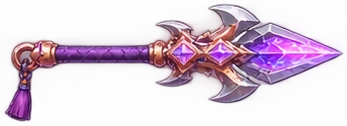
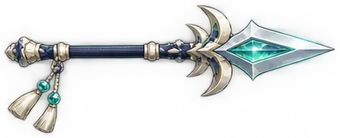
Deploy connected Samurai Lands, distinct transcendent gear and Moonlight Swordswoman wardrobe

diff --git a/public/game.html b/public/game.html
@@ -159,7 +159,7 @@ body.wide #modal{left:0;right:0;width:560px;margin:0 auto;zoom:var(--uiz,1);bord
 .wc.dim{filter:grayscale(.75) brightness(.6)}
 .wc.sel{box-shadow:0 0 0 3px #ffe066}
 .gb0{background:linear-gradient(#c3cad6,#8a93a3)}.gb1{background:linear-gradient(#8be872,#3fa83a)}.gb2{background:linear-gradient(#7ac8ff,#2f7fd8)}.gb3{background:linear-gradient(#d39bff,#8a3fd8)}.mkp{display:flex;align-items:center;gap:4px}.mkform{background:#3b3654;border:3px solid #1c1830;border-radius:14px;padding:10px;margin-bottom:9px;display:grid;gap:8px;box-sizing:border-box;width:100%;overflow:hidden}.mkh{display:flex;align-items:center;gap:10px;min-width:0}.mkh .ric{flex:0 0 56px;width:56px;height:56px;border-radius:10px}.mkh b{display:block;font-size:17px}.mkh small{font-size:12px;color:#cfc8ee}.mkcur{display:grid;grid-template-columns:1fr 1fr;gap:6px}.mkcur button{font:inherit;font-size:14px;padding:8px 4px;border-radius:10px;border:2px solid #1c1830;background:#4a4466;color:#fff;display:flex;align-items:center;justify-content:center;gap:4px}.mkcur button.on{background:#ffd23c;color:#3a2a10}.mkcur svg,.mkcur img{width:18px!important;height:18px!important}#mkprice{width:100%;box-sizing:border-box;font:inherit;font-size:17px;padding:9px 12px;border-radius:10px;border:2px solid #1c1830}.mkform .btn{width:100%;min-width:0}.mkp svg,.mkp img{width:20px!important;height:20px!important}
-.gb7{background:linear-gradient(#e9c6ff,#7951c7)}.gb4{background:linear-gradient(#ffe07a,#f0a020)}.gb6{background:linear-gradient(#ff8fb4,#c8174f)}.gb5{background:linear-gradient(#8ff5e4,#18a890)}
+.gb4{background:linear-gradient(#ffe07a,#f0a020)}.gb6{background:linear-gradient(#ff8fb4,#c8174f)}.gb5{background:linear-gradient(#8ff5e4,#18a890)}
 #pop{position:absolute;inset:0;z-index:8;background:rgba(10,8,20,.6);display:none;align-items:center;justify-content:center;pointer-events:auto}
 #pop.open{display:flex}
 .pc{position:relative;width:88%;max-width:400px;background:#f6e8c8;border:3px solid #1c1830;border-radius:16px;color:#5a3a1e;padding:46px 12px 12px;font-size:14px}
@@ -377,6 +377,18 @@ body.wide #modal{left:0;right:0;width:560px;margin:0 auto;zoom:var(--uiz,1);bord
 .vip-benefits{background:#2e2944;border:1px solid #b28b45;border-radius:12px;padding:18px;margin:14px 0;line-height:1.6}.vip-benefits h3{color:#ffd36a}.vip-benefits p{font-size:14px;margin:10px 0}.vip-benefits small{font-size:11px;color:#c8c0d8}
 .growth-button[data-a="buyvip"]{width:100%;display:flex;align-items:center;justify-content:center;gap:5px}.growth-button[data-a="buyvip"]>img,.growth-button[data-a="buyvip"]>svg{width:24px;height:24px;display:inline-block}
 #mfx{position:fixed;inset:0;z-index:9000;display:none;flex-direction:column;align-items:center;justify-content:center;pointer-events:none;background:radial-gradient(circle,rgba(20,16,40,.55),rgba(20,16,40,0) 70%)}#mfx.on{display:flex;animation:mfxo 1.5s forwards}@keyframes mfxo{0%{opacity:0}10%{opacity:1}75%{opacity:1}100%{opacity:0}}.mfxt{font-family:Jua,sans-serif;font-size:30px;color:#ffe066;margin-bottom:10px}.mfxr{display:flex;flex-wrap:wrap;gap:8px;justify-content:center;max-width:340px}.mfxc{position:relative;width:76px;height:76px;border-radius:14px;border:3px solid #1c1830;display:grid;place-items:center;animation:mfxp .45s cubic-bezier(.3,1.6,.5,1) both;box-shadow:0 0 22px rgba(255,230,120,.6)}.mfxc img{width:62px;height:62px;object-fit:contain}.mfxc b{position:absolute;bottom:-4px;left:0;right:0;text-align:center;font:13px Jua,sans-serif}.mfxc i{position:absolute;top:2px;right:5px;font:14px Jua,sans-serif;font-style:normal;color:#fff}@keyframes mfxp{0%{transform:scale(.2) rotate(-12deg);opacity:0}100%{transform:scale(1);opacity:1}}
+/* 초월 카드: 어두운 남색 바탕에 백금 테두리와 청록빛 반사광. */
+.gb7{
+ border-color:#ead5a0;
+ background:
+  radial-gradient(circle at 77% 19%,#fff6d6 0 1px,transparent 2.5px),
+  radial-gradient(circle at 18% 68%,#c2fffa 0 1px,transparent 2px),
+  repeating-linear-gradient(133deg,transparent 0 12px,#b4faf815 13px,transparent 14px 22px),
+  radial-gradient(ellipse at 45% 82%,#24928d 0,transparent 65%),
+  linear-gradient(145deg,#212f4c 0%,#0d172c 54%,#143940 100%);
+ box-shadow:inset 0 0 0 1px #fff3cb75,inset 0 0 10px #76e5e455;
+}
+
 #reward-fx{position:absolute;inset:0;z-index:100;pointer-events:none;overflow:hidden}.reward-wallet{position:absolute;right:12px;min-width:74px;display:flex;align-items:center;justify-content:center;gap:6px;padding:4px 8px;border:1px solid #eec96d;border-radius:14px;background:#211e38ee;font-size:13px}.reward-wallet :is(img,svg){width:22px;height:22px;object-fit:contain}.reward-wallet b{font-weight:400}
 @media(prefers-reduced-motion:reduce){.rfly{animation-duration:.25s}}
 .smith-odds{width:100%;margin:14px 0;border-collapse:collapse;background:#252239;border-radius:12px;text-align:center}.smith-odds th,.smith-odds td{padding:10px 5px;border-bottom:1px solid #ffffff17}.smith-odds thead{color:#fbe4ab}.smith-confirm{width:100%;display:flex;align-items:center;justify-content:center;gap:6px}.smith-confirm :is(img,svg){width:23px;height:23px;object-fit:contain}
@@ -461,9 +473,9 @@ body.wide #modal{left:0;right:0;width:560px;margin:0 auto;zoom:var(--uiz,1);bord
 <script>window.saveReady=!!sessionStorage.xp_enter && sessionStorage.xp_enter===sessionStorage.xp_tok;window.TOK=()=>sessionStorage.xp_tok||"";sessionStorage.removeItem("xp_enter");if(!window.saveReady)location.replace("index.html")</script>
 <script src="net.js?v=35"></script>
 <script src="chief-patterns.js?v=4"></script>
-<script src="chapter-three.js"></script>
+<script src="chapter-three.js?v=2"></script>
 <script src="boss-patterns.js?v=6"></script>
-<script src="weapon-skill-fx.js?v=5"></script>
+<script src="weapon-skill-fx.js?v=6"></script>
 <script src="reward-fx.js?v=1"></script>
 <script>
 'use strict';
@@ -521,7 +533,7 @@ async function idbAll(){const db=await idb();return new Promise(res=>{const out=
 async function idbPut(k,v){const db=await idb();return new Promise(res=>{const tx=db.transaction('a','readwrite');tx.objectStore('a').put(v,k);tx.oncomplete=()=>res();tx.onerror=()=>res()})}
 async function idbDel(k){const db=await idb();return new Promise(res=>{const tx=db.transaction('a','readwrite');tx.objectStore('a').delete(k);tx.oncomplete=()=>res();tx.onerror=()=>res()})}
 const BAKED={};
-async function loadAssets(){try{const r=await fetch('assets/manifest.json',{cache:'no-cache'});if(r.ok){const j=await r.json();for(const f of(j.files||[])){const n=f.replace(/\.(png|webp|jpe?g|gif)$/i,'');BAKED[n]='assets/'+f;setAsset(n,'assets/'+f+(n==='bld_fire'?'?v=2041':/^wpn_.*_5$/.test(n)?'?v=2057':/^hero_/.test(n)?'?v=2040':/^(tile|obs)/.test(n)?'?v=2037':/^fx_(boom|meteor)$/.test(n)?'?v=2101':''))}}}catch(e){}
+async function loadAssets(){try{const r=await fetch('assets/manifest.json',{cache:'no-cache'});if(r.ok){const j=await r.json();for(const f of(j.files||[])){const n=f.replace(/\.(png|webp|jpe?g|gif)$/i,'');BAKED[n]='assets/'+f;setAsset(n,'assets/'+f+(n==='bld_fire'?'?v=2041':/^wpn_.*_7$/.test(n)?'?v=2':/^wpn_.*_5$/.test(n)?'?v=2057':/^hero_moonbushi_/.test(n)?'?v=2':/^hero_/.test(n)?'?v=2040':/^(tile|obs)/.test(n)?'?v=2037':/^fx_(boom|meteor)$/.test(n)?'?v=2101':''))}}}catch(e){}
  try{for(const[k,v]of await idbAll()){LOCAL[k]=1;setAsset(k,URL.createObjectURL(v))}}catch(e){}}
 const SHAPE={sprout:'머리에 새싹 잎이 난 동글동글한 몸',slime:'말랑한 젤리 슬라임',mush:'버섯 갓을 쓴 작은 몸',spider:'다리 8개 달린 벌레형',golem:'큼직한 돌덩이 골렘',tall:'키 큰 인간형(로브·갑옷)',bat:'날개를 편 박쥐형',chest:'보물상자(때리면 부서짐)',cactus:'선인장'};
 const HERO_LOOK={archer:'초록 후드와 가죽 조끼의 견습 궁수',farmer:'밀짚모자와 멜빵바지의 농부',mage:'파란 뾰족 모자와 로브의 수습 마법사',miner:'노란 안전모와 헤드랜턴, 갈색 작업복의 광부',monk:'주황 승복과 민머리의 수도승',pirate:'삼각 해적모자와 빨간 두건, 안대의 해적',viking:'뿔 달린 투구와 털망토, 갈색 수염의 바이킹',samurai:'빨간 일본 갑옷과 투구의 사무라이',icewitch:'하늘색 마녀 모자와 얼음 결정 장식 로브의 마녀',dragon:'붉은 용비늘 갑옷과 용머리 투구의 용기사',adv:'얼굴 없는 노란 마네킹 같은 기본 캐릭터, 몸 전체가 노란색',knight:'은색 갑옷, 가슴에 파란 천, 빨간 깃털 달린 투구',rogue:'짙은 보라색 후드와 옷, 어두운 얼굴에 빛나는 노란 눈 두 개'};
@@ -600,13 +612,69 @@ const HOLE=[];function gz(z,x,y){let g=-1e9;for(const c of ZA[z]){const v=c.r-Ma
 const BR=[];for(let a=0;a<NZ;a++)for(let b=a+1;b<NZ;b++)for(const ca of ZA[a])for(const cb of ZA[b]){const d=Math.hypot(ca.x-cb.x,ca.y-cb.y),ov=ca.r+cb.r-d;if(ov>40){const t=(ca.r-ov/2)/d;BR.push({x:ca.x+(cb.x-ca.x)*t,y:ca.y+(cb.y-ca.y)*t,r:Math.min(150*MS,ov/2+50*MS),a,b})}}
 const BRIDGES=[];if(CHAP===2)for(const{za,zb,p1:q1,p2:q2}of BRX){const p1={x:CX+q1[0]*MS,y:CY+q1[1]*MS},p2={x:CX+q2[0]*MS,y:CY+q2[1]*MS};BRIDGES.push({a:za,b:zb,p1,p2});JN.push(p1,p2);
  const L=Math.hypot(p2.x-p1.x,p2.y-p1.y),ux=(p2.x-p1.x)/L,uy=(p2.y-p1.y)/L;for(let t=-260;t<=L+260;t+=28)BR.push({x:p1.x+ux*t,y:p1.y+uy*t,r:58,a:za,b:zb})}
+const LAND_ROADS=[];
 if(CHAP===3)for(const [a,ia,b,ib] of CH3_ROADS){
  const A=ia<0?{x:CX,y:CY,r:BASE.sand}:ZB[a][ia],B=ZB[b][ib];
  const d=Math.hypot(B.x-A.x,B.y-A.y),ux=(B.x-A.x)/d,uy=(B.y-A.y)/d;
  const p1={x:A.x+ux*(A.r-120),y:A.y+uy*(A.r-120)},p2={x:B.x-ux*(B.r-120),y:B.y-uy*(B.r-120)};
- BRIDGES.push({a,b,p1,p2});JN.push(p1,p2);
+ LAND_ROADS.push({a,b,p1,p2});JN.push(p1,p2);
  const length=Math.hypot(p2.x-p1.x,p2.y-p1.y);
  for(let t=0;t<=length+25;t+=25)BR.push({x:p1.x+ux*t,y:p1.y+uy*t,r:74,a,b});
+}
+const coastPath=new Path2D();
+const coast=CH3_COAST.flatMap(([x,y],i)=>{
+ const before=CH3_COAST.at(i-1),after=CH3_COAST[(i+1)%CH3_COAST.length];
+ return Array.from({length:5},(_,j)=>{
+  const t=j/5,u=1-t;
+  return [(before[0]+x)/2*u*u+2*x*u*t+(x+after[0])/2*t*t,
+          (before[1]+y)/2*u*u+2*y*u*t+(y+after[1])/2*t*t];
+ });
+});
+coast.forEach(([x,y],i)=>i?coastPath.lineTo(x,y):coastPath.moveTo(x,y));
+coastPath.closePath();
+function onContinent(x,y){
+ let inside=false;
+ for(let i=0,j=coast.length-1;i<coast.length;j=i++){
+  const [ax,ay]=coast[i],[bx,by]=coast[j];
+  if((ay>y)!==(by>y)&&x<(bx-ax)*(y-ay)/(by-ay)+ax)inside=!inside;
+ }
+ return inside;
+}
+function roadDistance(q,x,y){
+ const dx=q.p2.x-q.p1.x,dy=q.p2.y-q.p1.y;
+ const t=clamp(((x-q.p1.x)*dx+(y-q.p1.y)*dy)/(dx*dx+dy*dy),0,1);
+ return Math.hypot(x-q.p1.x-t*dx,y-q.p1.y-t*dy);
+}
+function continentWalk(x,y){
+ if(!onContinent(x,y))return false;
+ if(Math.hypot(x-WBA.x,y-WBA.y)<WBA.r+120)return zoneOpen(WBA.z);
+ if(LAND_ROADS.some(q=>zoneOpen(q.a)&&zoneOpen(q.b)&&roadDistance(q,x,y)<170))return true;
+ let best=Infinity,region=0;
+ for(let i=0;i<NZ;i++){
+  const c=ZB[i][1],d=(x-c.x)**2+(y-c.y)**2;
+  if(d<best){best=d;region=i}
+ }
+ return zoneOpen(region);
+}
+function paintContinent(){
+ ctx.save();
+ ctx.strokeStyle='#7ebfa8';ctx.lineWidth=145;ctx.stroke(coastPath);
+ ctx.strokeStyle='#bba77b';ctx.lineWidth=70;ctx.stroke(coastPath);
+ ctx.fillStyle=pat('tile3_1')||'#719456';ctx.fill(coastPath);
+ ctx.restore();
+}
+function drawLandRoads(){
+ ctx.save();
+ ctx.lineCap='round';
+ for(const q of LAND_ROADS){
+  const {p1,p2}=q;
+  ctx.beginPath();ctx.moveTo(p1.x,p1.y);
+  ctx.quadraticCurveTo((p1.x+p2.x)/2,(p1.y+p2.y)/2+95,p2.x,p2.y);
+  ctx.strokeStyle='#758052';ctx.lineWidth=174;ctx.stroke();
+  ctx.strokeStyle='#c5a878';ctx.lineWidth=137;ctx.stroke();
+  ctx.strokeStyle='#dfc28f';ctx.lineWidth=96;ctx.stroke();
+ }
+ ctx.restore();
 }
 function drawBridges(){for(const q of BRIDGES){const open=zoneOpen(q.a)&&zoneOpen(q.b),dx=q.p2.x-q.p1.x,dy=q.p2.y-q.p1.y,L=Math.hypot(dx,dy),a=Math.atan2(dy,dx);ctx.save();ctx.translate(q.p1.x,q.p1.y);ctx.rotate(a);
  const seg=(s0,s1)=>{ctx.fillStyle='rgba(0,0,0,.22)';ctx.fillRect(s0,-46,s1-s0,104);ctx.fillStyle='#6b4524';ctx.fillRect(s0,-52,s1-s0,104);for(let x=s0;x<s1;x+=24){ctx.fillStyle=((x/24)|0)%2?'#a8743f':'#b9844c';ctx.fillRect(x+1,-48,Math.min(21,s1-x-1),96)}ctx.fillStyle='#4a2c14';ctx.fillRect(s0,-54,s1-s0,9);ctx.fillRect(s0,45,s1-s0,9)};
@@ -627,7 +695,7 @@ function wbInit(){if(WBC.ok)return;let best=null,bd=1e9;for(let y=WBA.y-(CHAP===
  if(!best)best=[ZB[WBA.z][4].x,ZB[WBA.z][4].y];
  const a=Math.atan2(best[1]-WBA.y,best[0]-WBA.x);Object.assign(WBC,{ok:1,x1:WBA.x+Math.cos(a)*(WBA.r-60),y1:WBA.y+Math.sin(a)*(WBA.r-60),x2:best[0],y2:best[1],w:150})}
 function inWB(x,y,pad){wbInit();if(Math.hypot(x-WBA.x,y-WBA.y)<WBA.r-pad)return true;const dx=WBC.x2-WBC.x1,dy=WBC.y2-WBC.y1,t=clamp(((x-WBC.x1)*dx+(y-WBC.y1)*dy)/(dx*dx+dy*dy),0,1);return Math.hypot(x-WBC.x1-dx*t,y-WBC.y1-dy*t)<WBC.w/2-pad}
-function walk(x,y){if(Math.hypot(x-CX,y-CY)<BASEC.r-14)return true;if(zoneOpen(WBA.z)&&inWB(x,y,16))return true;for(let i=0;i<NZ;i++)if(zoneOpen(i)){const g=gz(i,x,y);if(g>3)return true;if(g>-40&&WCTX.isPointInPath(ZC[i].path,x,y))return true}return inBR(x,y,14,q=>zoneOpen(q.a)&&zoneOpen(q.b))}
+function walk(x,y){if(Math.hypot(x-CX,y-CY)<BASEC.r-14)return true;if(CHAP===3)return continentWalk(x,y);if(zoneOpen(WBA.z)&&inWB(x,y,16))return true;for(let i=0;i<NZ;i++)if(zoneOpen(i)){const g=gz(i,x,y);if(g>3)return true;if(g>-40&&WCTX.isPointInPath(ZC[i].path,x,y))return true}return inBR(x,y,14,q=>zoneOpen(q.a)&&zoneOpen(q.b))}
 // 레벨업 필요 경험치: Lv.40까지 20·L^1.8, 그 뒤로는 레벨마다 13%씩 더 가파르게 (1챕 끝 약 Lv.70)
 function NEEDF(l){return Math.round(20*Math.pow(l,1.8)*Math.pow(1.13,Math.max(0,l-40)))}
 const M=(n,lv,hp,atk,xp,gold,r,spd,sh,c,o)=>Object.assign({n,lv,hp,atk,xp,gold,r,spd,sh,c,resp:7},o||{});
@@ -702,7 +770,7 @@ const WT={
  dagger:{n:'쌍검',rg:BASIC_RANGE,cd:.32,m:.34,arc:.8,hits:2,ds:'양손 번갈아 2연속 베기'},sword:{n:'검',rg:BASIC_RANGE,cd:.6,m:1.12,arc:1.3,ds:'앞쪽 부채꼴 베기'},mace:{n:'둔기',rg:BASIC_RANGE,cd:1.1,m:1.81,arc:3.14,stun:.45,ds:'360° 내려찍기 · 기절'},spear:{n:'창',rg:BASIC_RANGE,cd:.75,m:1.42,arc:.4,line:1,ds:'긴 일직선 관통 찌르기'},axe:{n:'도끼',rg:BASIC_RANGE,cd:.9,m:1.6,arc:1.9,kb:14,ds:'넓은 휘두르기 · 밀쳐내기'},
  bow:{n:'석궁',rg:150,cd:.85,m:.84,shot:1,pierce:1,ds:'일직선 관통 화살'},gun:{n:'총',rg:135,cd:.5,m:.25,shot:1,pel:3,ds:'3발 산탄 사격'},staff:{n:'지팡이',rg:140,cd:1.1,m:1.87,shot:1,aoe:70,ds:'마법 구슬 폭발'}
 };
-const GR=[{n:'일반',c:'#c3cad6',p:'낡은',b:3},{n:'희귀',c:'#6fe04f',p:'강철',b:8},{n:'레어',c:'#5ab4ff',p:'달빛',b:20},{n:'에픽',c:'#c97bff',p:'용의',b:55},{n:'전설',c:'#ffc93c',p:'태양의',b:150},{n:'고대',c:'#3ee0c8',p:'고대의',b:420},{n:'신화',c:'#ff3d7f',p:'신화의',b:800},{n:'초월',c:'#c9a5ff',p:'초월의',b:1600}];
+const GR=[{n:'일반',c:'#c3cad6',p:'낡은',b:3},{n:'희귀',c:'#6fe04f',p:'강철',b:8},{n:'레어',c:'#5ab4ff',p:'달빛',b:20},{n:'에픽',c:'#c97bff',p:'용의',b:55},{n:'전설',c:'#ffc93c',p:'태양의',b:150},{n:'고대',c:'#3ee0c8',p:'고대의',b:420},{n:'신화',c:'#ff3d7f',p:'신화의',b:800},{n:'초월',c:'#fff0c4',p:'초월의',b:1600}];
 function wIcon(k){const[t,g]=k.split('_');if(g==='6'&&!AURL['wpn_'+t+'_6']&&AURL['wpn_'+t+'_5'])return `<img src="${AURL['wpn_'+t+'_5']}" class="wimg" style="filter:hue-rotate(180deg) saturate(1.3)" alt="">`;if(g==='5'&&!AURL['wpn_'+t+'_5']&&AURL['wpn_'+t+'_4'])return `<img src="${AURL['wpn_'+t+'_4']}" class="wimg" style="filter:hue-rotate(150deg) saturate(1.15)" alt="">`;const u=AURL['wpn_'+t+'_'+g]||AURL['wpn_'+t];return u?`<img src="${u}" class="wimg" alt="">`:IC.sword}
 const SK={dagger:{n:'그림자 연격',d:'양손 쌍검으로 가까운 적을 6번 연속 벱니다',cd:4},sword:{n:'검기',d:'앞으로 관통하는 거대한 검기를 날립니다',cd:5},mace:{n:'대지 강타',d:'주변을 내려찍어 피해를 주고 1초 기절시킵니다',cd:6},spear:{n:'천공창',d:'아주 긴 일직선으로 관통 찌르기',cd:5},axe:{n:'회오리',d:'1.2초 동안 회전하며 주변을 계속 벱니다',cd:6},bow:{n:'화살비',d:'부채꼴로 관통 화살 7발을 쏩니다',cd:5},gun:{n:'난사',d:'1초 동안 사방으로 총알을 난사합니다',cd:5},staff:{n:'메테오',d:'적 위치에 운석을 떨어뜨려 크게 폭발합니다',cd:7}};
 const SK5={dagger:{n:'천 개의 칼날',d:'주변 적 4마리 사이를 오가며 12번 베어냅니다',cd:4},sword:{n:'차원 가르기',d:'세 갈래 거대한 검기를 날린 뒤 차원 균열이 폭발합니다',cd:5},mace:{n:'대지 붕괴',d:'점점 커지는 충격파 3번으로 넓게 내려찍고 기절시킵니다',cd:6},spear:{n:'용의 별창',d:'별 모양 다섯 방향으로 긴 관통 찌르기',cd:5},axe:{n:'폭풍 회오리',d:'2.4초 동안 거대한 회오리가 되어 주변을 계속 벱니다',cd:6},bow:{n:'별의 화살비',d:'화살 9발을 3번 쏘고 하늘에서 화살비가 쏟아집니다',cd:5},gun:{n:'탄막 폭풍',d:'나선형으로 총알 24발을 쏟아냅니다',cd:5},staff:{n:'유성우',d:'적들 위로 운석 5개를 떨어뜨립니다',cd:7}};
@@ -724,18 +792,19 @@ function useSkill5(t){const tg=nearest(t==='bow'||t==='staff'||t==='gun'?300:t==
  return true}
 // 신화 전용 스킬
 const SK6={dagger:{n:'혈월 난무',d:'주변 적 6마리 사이를 순간이동하며 18번 베고, 마지막에 붉은 십자 폭발',cd:4},sword:{n:'천벌의 검',d:'다섯 갈래 검기를 날린 뒤 하늘에서 거대한 검이 떨어져 폭발합니다',cd:5},mace:{n:'천지개벽',d:'충격파 4번으로 화면을 흔들고 마지막에 대지가 갈라지며 2초 기절',cd:6},spear:{n:'신룡창',d:'여덟 방향으로 용의 창을 찌른 뒤 중심에서 용이 솟구쳐 폭발합니다',cd:5},axe:{n:'멸망의 폭풍',d:'3초 동안 점점 커지는 붉은 폭풍이 되어 주변을 쓸어버립니다',cd:6},bow:{n:'신의 심판',d:'화살 12발을 3번 쏘고, 주변 적 모두에게 빛의 화살이 내리꽂힙니다',cd:5},gun:{n:'섬멸 포화',d:'나선형 탄막 36발 뒤에 거대한 포탄을 쏴서 크게 폭발합니다',cd:5},staff:{n:'종말의 별',d:'운석 7개를 떨어뜨리고 마지막에 거대한 붉은 별이 떨어집니다',cd:7}};
-function useSkill6(t){const tg=nearest(t==='bow'||t==='staff'||t==='gun'?320:t==='sword'||t==='spear'?300:200);if(!tg)return false;window.SFX&&SFX.play('explode',{v:.9});const A=ST.atk*ST.skill*SKM[t]*SK6M[t],a=Math.atan2(tg.y-P.y,tg.x-P.x),C='#ff3d7f';P.dir=a;window.WeaponSkillFX?.add(fxs,t,6,P,tg,a);
- num(P.x,P.y-104,SK6[t].n+'!',C,true);
+function useSkill6(t,grade=6){const tg=nearest(t==='bow'||t==='staff'||t==='gun'?320:t==='sword'||t==='spear'?300:200);if(!tg)return false;window.SFX&&SFX.play('explode',{v:.9});const A=ST.atk*ST.skill*SKM[t]*SK6M[t],a=Math.atan2(tg.y-P.y,tg.x-P.x),C=grade===7?'#affff0':'#ff3d7f';P.dir=a;window.WeaponSkillFX?.add(fxs,t,grade,P,tg,a);
+ num(P.x,P.y-104,(grade===7?'초월 · ':'')+SK6[t].n+'!',C,true);
+ const art=(x,y,size,duration)=>window.WeaponSkillFX?.impact(fxs,t,grade,x,y,size,false,duration);
  const near=(r,n)=>mons.filter(m=>!m.dead&&zoneOpen(m.z)&&Math.hypot(m.x-P.x,m.y-P.y)<r).sort((p,q)=>Math.hypot(p.x-P.x,p.y-P.y)-Math.hypot(q.x-P.x,q.y-P.y)).slice(0,n);
- const boom=(x,y,r,d,stun)=>{areaHit(x,y,r,d,stun);IF('fx_boom',{x,y:y-20,t:.5,s0:r*.8,s1:r*1.9})||fxs.push({x,y,t:.45,r,c:C});fxs.push({x,y,t:.3,r:r*.55,c:'#fff'})};
+ const boom=(x,y,r,d,stun)=>{areaHit(x,y,r,d,stun);if(grade===7){art(x,y-18,r*1.9,.45);return}IF('fx_boom',{x,y:y-20,t:.5,s0:r*.8,s1:r*1.9})||fxs.push({x,y,t:.45,r,c:C});fxs.push({x,y,t:.3,r:r*.55,c:'#fff'})};
  switch(t){
- case'dagger':{const L=near(240,6);for(let i=0;i<18;i++)later(i*.055,()=>{const m=L[i%Math.max(1,L.length)];if(m&&!m.dead){dmg(m,Math.round(A*1.75),Math.random()<.7);IF('fx_x',{x:m.x,y:m.y-m.d.r,t:.22,s0:50,s1:100,rot:rnd(-.8,.8)})||fxs.push({line:1,x:m.x-30,y:m.y-m.d.r,a:rnd(-.8,.8),r:80,t:.12});fxs.push({x:m.x,y:m.y-m.d.r,t:.18,r:34,c:C})}});later(1.05,()=>{for(const m of L)if(!m.dead)boom(m.x,m.y,90,A*2.5)});break}
- case'sword':for(const o of[-.5,-.25,0,.25,.5])bolt(a+o,600,.6,Math.round(A*3.6),'wave',true,undefined,undefined,{type:t,grade:6});later(.6,()=>{const x=tg.x,y=tg.y;later(.35,()=>{boom(x,y,190,A*5.5)})});break;
- case'mace':[160,240,320,400].forEach((r,i)=>later(i*.24,()=>{areaHit(P.x,P.y,r,A*2.4,1);IF('fx_ring',{x:P.x,y:P.y-6,t:.5,s0:r*.6,s1:r*2.1,sy:.62})||fxs.push({x:P.x,y:P.y,t:.45,r,c:C});fxs.push({x:P.x,y:P.y,t:.3,r:r*.6,c:'#fff'})}));later(1.05,()=>{for(const m of near(400,30)){m.stunT=Math.max(m.stunT||0,2)}boom(P.x,P.y,260,A*2.5,1)});break;
+ case'dagger':{const L=near(240,6);for(let i=0;i<18;i++)later(i*.055,()=>{const m=L[i%Math.max(1,L.length)];if(m&&!m.dead){dmg(m,Math.round(A*1.75),Math.random()<.7);if(grade===7){if(!combatArena&&i%3===0)art(m.x,m.y-m.d.r,105,.22);return}IF('fx_x',{x:m.x,y:m.y-m.d.r,t:.22,s0:50,s1:100,rot:rnd(-.8,.8)})||fxs.push({line:1,x:m.x-30,y:m.y-m.d.r,a:rnd(-.8,.8),r:80,t:.12});fxs.push({x:m.x,y:m.y-m.d.r,t:.18,r:34,c:C})}});later(1.05,()=>{for(const m of L)if(!m.dead)boom(m.x,m.y,90,A*2.5)});break}
+ case'sword':for(const o of[-.5,-.25,0,.25,.5])bolt(a+o,600,.6,Math.round(A*3.6),'wave',true,undefined,undefined,{type:t,grade});later(.6,()=>{const x=tg.x,y=tg.y;later(.35,()=>{boom(x,y,190,A*5.5)})});break;
+ case'mace':[160,240,320,400].forEach((r,i)=>later(i*.24,()=>{areaHit(P.x,P.y,r,A*2.4,1);if(grade===7){art(P.x,P.y-6,r*1.45,.42);return}IF('fx_ring',{x:P.x,y:P.y-6,t:.5,s0:r*.6,s1:r*2.1,sy:.62})||fxs.push({x:P.x,y:P.y,t:.45,r,c:C});fxs.push({x:P.x,y:P.y,t:.3,r:r*.6,c:'#fff'})}));later(1.05,()=>{for(const m of near(400,30)){m.stunT=Math.max(m.stunT||0,2)}boom(P.x,P.y,260,A*2.5,1)});break;
  case'spear':for(let k=0;k<8;k++)later(k*.05,()=>lineHit(a+k*TAU/8,380,A*4.2,false));later(.55,()=>boom(P.x,P.y,170,A*4));break;
  case'axe':for(let i=0;i<15;i++)later(i*.2,()=>{const r=150+i*5;areaHit(P.x,P.y,r,A*1.45);P.sdir=-P.sdir;P.swingT=P.sw=.16});break;
- case'bow':for(let v=0;v<3;v++)later(v*.16,()=>{for(let i=0;i<12;i++)bolt(a+(i-5.5)*.09,860,.5,Math.round(A*.75),'sarrow',true,undefined,undefined,{type:t,grade:6})});later(.6,()=>{for(const m of near(360,12))if(!m.dead){const x=m.x,y=m.y;for(let k=0;k<3;k++)fxs.push({line:1,x:x+rnd(-20,20),y:y-40,a:1.5,r:60,t:.18});boom(x,y,80,A*2.2)}});break;
- case'gun':for(let i=0;i<36;i++)later(i*.035,()=>bolt(a+i*.5,720,.42,Math.round(A*1.6),'sbullet',true,undefined,undefined,{type:t,grade:6}));later(1.35,()=>{bolt(a,900,.3,Math.round(A*2),'sbullet',true,undefined,undefined,{type:t,grade:6});later(.25,()=>boom(tg.x,tg.y,170,A*5))});break;
+ case'bow':for(let v=0;v<3;v++)later(v*.16,()=>{for(let i=0;i<12;i++)bolt(a+(i-5.5)*.09,860,.5,Math.round(A*.75),'sarrow',true,undefined,undefined,{type:t,grade})});later(.6,()=>{for(const m of near(360,12))if(!m.dead){const x=m.x,y=m.y;if(grade!==7)for(let k=0;k<3;k++)fxs.push({line:1,x:x+rnd(-20,20),y:y-40,a:1.5,r:60,t:.18});boom(x,y,80,A*2.2)}});break;
+ case'gun':for(let i=0;i<36;i++)later(i*.035,()=>bolt(a+i*.5,720,.42,Math.round(A*1.6),'sbullet',true,undefined,undefined,{type:t,grade}));later(1.35,()=>{bolt(a,900,.3,Math.round(A*2),'sbullet',true,undefined,undefined,{type:t,grade});later(.25,()=>boom(tg.x,tg.y,170,A*5))});break;
  case'staff':{const L=near(340,7);for(let k=0;k<7;k++){const m=L[k%Math.max(1,L.length)]||tg,mx=m.x+rnd(-30,30),my=m.y+rnd(-30,30);later(k*.14,()=>{later(.5,()=>boom(mx,my,130,A*2.9))})}later(1.3,()=>{const mx=tg.x,my=tg.y;later(.6,()=>{boom(mx,my,240,A*6)})})}}
  return true}
 const SP={dagger:'3연속 베기',sword:'넓고 강한 베기',mace:'큰 충격파',spear:'1.5배 길이 찌르기',axe:'360° 회전 베기',bow:'화살 3발',gun:'5발 산탄',staff:'큰 폭발'};
@@ -1430,22 +1499,25 @@ function useSkill(t){const tg=nearest(t==='bow'||t==='staff'||t==='gun'?260:t===
 const SP5={dagger:'고대 4연속 베기',sword:'고대 검기 발사',mace:'여진 충격파',spear:'2배 길이 관통',axe:'회전 베기 + 강한 밀쳐내기',bow:'고대 화살 5발',gun:'7발 산탄',staff:'2배 폭발'};
 const SP6={dagger:'신화 5연속 + 출혈 폭발',sword:'세 갈래 신화 검기',mace:'이중 여진 + 기절',spear:'세 방향 신룡 찌르기',axe:'신화 이중 회전',bow:'신화 화살 7발',gun:'9발 폭발 산탄',staff:'연쇄 3폭발'};
 // 고대(eg=1)·신화(eg=2) 3번째 평타 추가 효과
-function empExtra(t,eg,h,c){const d=h.d,m=h.m,a=Math.atan2(m.y-P.y,m.x-P.x);
+function empExtra(t,eg,h,c,grade=eg+4){const d=h.d,m=h.m,a=Math.atan2(m.y-P.y,m.x-P.x);
+ const impact=(x,y,r)=>grade===7
+  ? window.WeaponSkillFX?.impact(fxs,t,grade,x,y-12,r*2,true)
+  : fxs.push({x,y,t:.35,r,c});
  switch(t){
- case'dagger':for(let i=0;i<eg;i++)later(.12+i*.1,()=>{P.sdir=-P.sdir;P.swingT=P.sw=.12;swingHits(WT.dagger,h.crit,Math.round(d*.8))});if(eg>1)later(.4,()=>{if(!m.dead){areaHit(m.x,m.y,70,d*.9);fxs.push({x:m.x,y:m.y,t:.35,r:70,c})}});break;
- case'sword':for(const o of(eg>1?[-.3,0,.3]:[0]))bolt(a+o,620,.42,Math.round(d*.9),'wave',true,undefined,undefined,{type:t,grade:eg+4,third:true});break;
- case'mace':for(let i=0;i<eg;i++)later(.22+i*.22,()=>{const r=WT.mace.rg*(1.6+i*.5);areaHit(P.x,P.y,r,d*.6,eg>1?1:0);IF('fx_ring',{x:P.x,y:P.y-6,t:.45,s0:r*.6,s1:r*2,sy:.62})||fxs.push({x:P.x,y:P.y,t:.4,r,c})});break;
+ case'dagger':for(let i=0;i<eg;i++)later(.12+i*.1,()=>{P.sdir=-P.sdir;P.swingT=P.sw=.12;swingHits(WT.dagger,h.crit,Math.round(d*.8))});if(eg>1)later(.4,()=>{if(!m.dead){areaHit(m.x,m.y,70,d*.9);impact(m.x,m.y,70)}});break;
+ case'sword':for(const o of(eg>1?[-.3,0,.3]:[0]))bolt(a+o,620,.42,Math.round(d*.9),'wave',true,undefined,undefined,{type:t,grade,third:true});break;
+ case'mace':for(let i=0;i<eg;i++)later(.22+i*.22,()=>{const r=WT.mace.rg*(1.6+i*.5);areaHit(P.x,P.y,r,d*.6,eg>1?1:0);if(grade===7){impact(P.x,P.y,r);return}IF('fx_ring',{x:P.x,y:P.y-6,t:.45,s0:r*.6,s1:r*2,sy:.62})||fxs.push({x:P.x,y:P.y,t:.4,r,c})});break;
  case'spear':if(eg>1)for(const o of[-.45,.45])lineHit(a+o,WT.spear.rg*2.3,d*.8,false);break;
  case'axe':for(const mm of mons)if(!mm.dead&&Math.hypot(mm.x-P.x,mm.y-P.y)<WT.axe.rg+60){const l=Math.hypot(mm.x-P.x,mm.y-P.y)||1;if(!mm.d.boss){mm.x+=(mm.x-P.x)/l*30*eg;mm.y+=(mm.y-P.y)/l*30*eg}}if(eg>1)later(.18,()=>{P.sdir=-P.sdir;P.swingT=P.sw=.16;swingHits(Object.assign({},WT.axe,{arc:3.14}),h.crit,Math.round(d*.8))});break;
- case'gun':if(eg>1)later(.25,()=>{if(!m.dead){areaHit(m.x,m.y,80,d*1.2);fxs.push({x:m.x,y:m.y,t:.35,r:80,c})}});break;
- case'staff':if(eg>1)for(let i=1;i<=2;i++)later(i*.18,()=>{const x=m.x+rnd(-60,60),y=m.y+rnd(-40,40);areaHit(x,y,WT.staff.aoe*1.6,d*.7);IF('fx_boom',{x,y:y-20,t:.4,s0:60,s1:150})||fxs.push({x,y,t:.4,r:WT.staff.aoe*1.6,c})});break;
+ case'gun':if(eg>1)later(.25,()=>{if(!m.dead){areaHit(m.x,m.y,80,d*1.2);impact(m.x,m.y,80)}});break;
+ case'staff':if(eg>1)for(let i=1;i<=2;i++)later(i*.18,()=>{const x=m.x+rnd(-60,60),y=m.y+rnd(-40,40);areaHit(x,y,WT.staff.aoe*1.6,d*.7);if(grade===7){impact(x,y,WT.staff.aoe*1.6);return}IF('fx_boom',{x,y:y-20,t:.4,s0:60,s1:150})||fxs.push({x,y,t:.4,r:WT.staff.aoe*1.6,c})});break;
  }}
 // 단일 보스 기준으로 3타의 산탄·검기·추가 폭발까지 포함해 등급별 총 피해를 맞춤.
 const THIRD_HIT_MULT={
  1:{dagger:2.000000,sword:1.473684,mace:1.750000,spear:2.800000,axe:2.800000,bow:1.680000,gun:2.000000,staff:2.800000},
  2:{dagger:2.488889,sword:1.513514,mace:2.545455,spear:2.153846,axe:3.111111,bow:2.400000,gun:3.414634,staff:2.333333},
 };
-function resolveHit(){const h=P.pend;P.pend=null;let w=h.w;const tipOk=P.tipX&&Math.hypot(P.tipX-P.x,P.tipY-P.y)<110,sx=tipOk?P.tipX:P.x+Math.cos(P.dir)*14,sy=tipOk?P.tipY:P.y-22;let weaponArt;if(h.emp){const eg=Math.min(6,Math.max(4,+mainW().split('_')[1]||0))-4,ec=['#ffd23c','#3ee0c8','#ff3d7f'][eg];w=Object.assign({},w,{rg:w.rg*(w.line?[1.5,2,2.3][eg]:[1.2,1.3,1.4][eg]),arc:Math.min(3.14,(w.arc||1.2)*(w===WT.axe?3:1.3)),hits:w.hits?3:0,pel:w.pel?[5,7,9][eg]:0,aoe:w.aoe?w.aoe*[1.5,2,2.4][eg]:0});h.d=Math.round(h.d*(eg?THIRD_HIT_MULT[eg][wType()]:1.4));if(eg){weaponArt={type:wType(),grade:eg+4,third:true};window.WeaponSkillFX?.add(fxs,wType(),eg+4,P,h.m,P.dir,true)}else fxs.push({x:P.x,y:P.y-14,t:.4,r:w.shot?50:w.rg,c:ec});num(P.x,P.y-96,(eg?(eg>1?SP6:SP5)[wType()]:SP[wType()]),eg?ec:'#ffe066',false);if(eg)empExtra(wType(),eg,h,ec);if(w.pierce){for(const da of(eg>1?[-.4,-.2,.2,.4,-.6,.6]:eg?[-.4,-.2,.2,.4]:[-.2,.2])){const a0=Math.atan2(h.m.y-h.m.d.r*.6-sy,h.m.x-sx)+da;bolt(a0,760,w.rg*1.15/760,h.d,'bow',true,sx,sy,weaponArt)}}}
+function resolveHit(){const h=P.pend;P.pend=null;let w=h.w;const tipOk=P.tipX&&Math.hypot(P.tipX-P.x,P.tipY-P.y)<110,sx=tipOk?P.tipX:P.x+Math.cos(P.dir)*14,sy=tipOk?P.tipY:P.y-22;let weaponArt;if(h.emp){const grade=+mainW().split('_')[1],eg=Math.min(6,Math.max(4,grade||0))-4,ec=grade===7?'#affff0':['#ffd23c','#3ee0c8','#ff3d7f'][eg];w=Object.assign({},w,{rg:w.rg*(w.line?[1.5,2,2.3][eg]:[1.2,1.3,1.4][eg]),arc:Math.min(3.14,(w.arc||1.2)*(w===WT.axe?3:1.3)),hits:w.hits?3:0,pel:w.pel?[5,7,9][eg]:0,aoe:w.aoe?w.aoe*[1.5,2,2.4][eg]:0});h.d=Math.round(h.d*(eg?THIRD_HIT_MULT[eg][wType()]:1.4));if(eg){weaponArt={type:wType(),grade,third:true};window.WeaponSkillFX?.add(fxs,wType(),grade,P,h.m,P.dir,true)}else fxs.push({x:P.x,y:P.y-14,t:.4,r:w.shot?50:w.rg,c:ec});num(P.x,P.y-96,(eg?(eg>1?SP6:SP5)[wType()]:SP[wType()]),eg?ec:'#ffe066',false);if(eg)empExtra(wType(),eg,h,ec,grade);if(w.pierce){for(const da of(eg>1?[-.4,-.2,.2,.4,-.6,.6]:eg?[-.4,-.2,.2,.4]:[-.2,.2])){const a0=Math.atan2(h.m.y-h.m.d.r*.6-sy,h.m.x-sx)+da;bolt(a0,760,w.rg*1.15/760,h.d,'bow',true,sx,sy,weaponArt)}}}
  if(w.shot){if(w.pierce||w.pel){const n=w.pel||1,a0=Math.atan2(h.m.y-h.m.d.r*.6-sy,h.m.x-sx);for(let i=0;i<n;i++){const a=a0+(n>1?(i-(n-1)/2)*.22:0),sp=w.pel?620:760;shots.push({x:sx,y:sy,vx:Math.cos(a)*sp,vy:Math.sin(a)*sp,a,life:(w.rg+Math.hypot(sx-P.x,sy-P.y))/sp,range:w.rg,ox:P.x,oy:P.y,d:h.d,crit:h.crit,k:wType(),weaponArt,hit:[],pierce:!!w.pierce})}}
   else if(!h.m.dead)shots.push({x:sx,y:sy,tg:h.m,range:w.rg,ox:P.x,oy:P.y,d:h.d,crit:h.crit,aoe:w.aoe||0,k:wType(),weaponArt})}
  else{swingHits(w,h.crit,h.d);if(w.hits>1)P.s2={w,crit:h.crit,d:h.d,t:.1}}}
@@ -1467,7 +1539,7 @@ window.addEventListener('keydown',e=>{keys[e.key.toLowerCase()]=true});window.ad
 let T=0,saveT=0,fullT=0,lockT=0;
 function stepPlayerCombat(dt){
   P.atkCd-=dt;P.swingT-=dt;P.hitT-=dt;for(let i=TM.length-1;i>=0;i--){TM[i].t-=dt;if(TM[i].t<=0){const f=TM[i].f;TM.splice(i,1);f()}}
-  P.sk=P.sk||[0,0,0,0,0,0];for(let i=0;i<6;i++){const k=S.slots[i];if(!k||+k.split('_')[1]<4)continue;const t=k.split('_')[0],gg=+k.split('_')[1],g5=gg>=5;P.sk[i]-=dt;if(P.sk[i]<=0)P.sk[i]=(gg>=6?useSkill6(t):g5?useSkill5(t):useSkill(t))?(gg>=6?SK6:g5?SK5:SK)[t].cd*ST.skillCooldown/Math.min(1.6,ST.aspd):.5}
+  P.sk=P.sk||[0,0,0,0,0,0];for(let i=0;i<6;i++){const k=S.slots[i];if(!k||+k.split('_')[1]<4)continue;const t=k.split('_')[0],gg=+k.split('_')[1],g5=gg>=5;P.sk[i]-=dt;if(P.sk[i]<=0)P.sk[i]=(gg>=6?useSkill6(t,gg):g5?useSkill5(t):useSkill(t))?(gg>=6?SK6:g5?SK5:SK)[t].cd*ST.skillCooldown/Math.min(1.6,ST.aspd):.5}
   if(P.s2){P.s2.t-=dt;if(P.s2.t<=0){const q=P.s2;P.s2=null;P.sdir=-P.sdir;P.swingT=P.sw=.14;swingHits(q.w,q.crit,q.d)}}if(P.pend&&(P.swingT<=0||1-P.swingT/P.sw>=(P.pend.w.shot?.3:.42)))resolveHit();if(P.extraT>0){P.extraT-=dt;if(P.extraT<=0&&P.extraM&&!P.extraM.dead){if(P.pend)P.extraT=.03;else{attack(P.extraM,1);P.extraLeft--;P.atkCd=Math.max(P.atkCd,P.sw*.5);if(P.extraLeft>0)P.extraT=Math.max(.18,P.sw*.5)}}}
   const rg=WT[wType()].rg;let best=null,bd=1e9;
   for(const m of mons){if(m.dead||!zoneOpen(m.z))continue;const d=Math.hypot(m.x-P.x,m.y-P.y)-m.d.r;if(d<=rg&&d<bd){bd=d;best=m}}
@@ -1728,6 +1800,7 @@ function groundStatic(x0,y0,x1,y1){
   }
   ctx.stroke();
  }
+ if(CHAP===3){paintContinent();ctx.save();ctx.clip(coastPath)}
  for(let i=0;i<NZ;i++){
   if(!groundIntersects(ZBB[i],x0,y0,x1,y1,30))continue;
   const fill=pat(TILE(i))||ZS[i].c;
@@ -1740,7 +1813,8 @@ function groundStatic(x0,y0,x1,y1){
  for(let i=0;i<NZ;i++){if(!groundIntersects(ZBB[i],x0,y0,x1,y1,70))continue;const b=ZB[i][4];ctx.fillStyle='rgba(60,30,30,.12)';ctx.beginPath();ctx.arc(b.x,b.y,b.r-8,0,TAU);ctx.fill();
   ctx.setLineDash([26,18]);ctx.strokeStyle='rgba(224,85,74,.75)';ctx.lineWidth=5;ctx.beginPath();ctx.arc(b.x,b.y,b.r,0,TAU);ctx.stroke();{const b2=ZB[i][2],r2=Math.min(b.r,260);ctx.fillStyle='rgba(60,30,30,.10)';ctx.beginPath();ctx.arc(b2.x,b2.y,r2-8,0,TAU);ctx.fill();ctx.beginPath();ctx.arc(b2.x,b2.y,r2,0,TAU);ctx.stroke()}ctx.setLineDash([])}
  ctx.lineCap='butt';
- drawBridges();drawWB();
+ if(CHAP===3)drawLandRoads();else drawBridges();drawWB();
+ if(CHAP===3)ctx.restore();
  if(Math.hypot(Math.max(x0-BASE.x,0,BASE.x-x1),Math.max(y0-BASE.y,0,BASE.y-y1))<BASEC.r+130){const baseFill=pat(BTILE())||'#f2d9a0';paintGroundEdge(baseGroundEdge,baseFill,20);blobs([BASEC],0,baseFill);if(!AI(BTILE())){ctx.save();blobPath([BASEC]);ctx.clip();texture(1,BASE.x-BASEC.r,BASE.y-BASEC.r,BASE.x+BASEC.r,BASE.y+BASEC.r);ctx.restore()}}
  ctx.lineWidth=2.2;ctx.strokeStyle=OLC;
 
@@ -1910,7 +1984,7 @@ function gripY(im,gx){let m=GY.get(im);if(!m){m={};GY.set(im,m)}if(m[gx]!==undef
 function blade(x0,x1,w,tip,c){const g=ctx.createLinearGradient(0,-w,0,w);g.addColorStop(0,'#ffffff');g.addColorStop(.45,c);g.addColorStop(1,lt(c,-.35));ctx.fillStyle=g;ctx.beginPath();ctx.moveTo(x0,-w);ctx.lineTo(x1,-w*.8);ctx.lineTo(x1+tip,0);ctx.lineTo(x1,w*.8);ctx.lineTo(x0,w);ctx.closePath();ctx.fill();ctx.stroke();ctx.strokeStyle='rgba(255,255,255,.75)';ctx.lineWidth=1.4;ctx.beginPath();ctx.moveTo(x0+2,-w*.25);ctx.lineTo(x1+tip*.4,-w*.1);ctx.stroke();ctx.strokeStyle=OLC;ctx.lineWidth=2}
 function handle(x0,x1,h){const g=ctx.createLinearGradient(0,-h,0,h);g.addColorStop(0,'#b07a4a');g.addColorStop(1,'#5e3a1e');ctx.fillStyle=g;rr(x0,-h,x1-x0,h*2,h);ctx.fill();ctx.stroke()}
 function drawWeapon(k,gc,glow,gi){ // pointing +x from the hand
- {const im=AI('wpn_'+k+'_'+gi)||AI('wpn_'+k);if(im){const L=((WL[k]||40)+8)*(PV?1.05:1)*(k==='dagger'?1.1:k==='bow'||k==='gun'?1.0:1.38)*(gi>=6?1.18:1),h=L*im.height/im.width*(gi===5?.8:1),GIi=weaponGrip(im,k,gi),gx=GIi.gx,gy=GIi.gy;if(gi>=5){const pu=.5+.5*Math.sin(performance.now()/180);ctx.shadowColor=gi>=6?'#ff3d7f':'#3ee0c8';ctx.shadowBlur=14+12*pu;ctx.drawImage(im,-L*gx,-h*gy,L,h);if(gi>=6){ctx.save();ctx.globalAlpha*=.35+.25*pu;ctx.globalCompositeOperation='lighter';ctx.drawImage(im,-L*gx,-h*gy,L,h);ctx.restore()}ctx.shadowBlur=0;return}if(glow){ctx.shadowColor=gc;ctx.shadowBlur=10}ctx.drawImage(im,-L*gx,-h*gy,L,h);ctx.shadowBlur=0;return}}
+ {const im=AI('wpn_'+k+'_'+gi)||AI('wpn_'+k);if(im){const L=((WL[k]||40)+8)*(PV?1.05:1)*(k==='dagger'?1.1:k==='bow'||k==='gun'?1.0:1.38)*(gi>=6?1.18:1),h=L*im.height/im.width*(gi===5?.8:1),GIi=weaponGrip(im,k,gi),gx=GIi.gx,gy=GIi.gy;if(gi>=5){const pu=.5+.5*Math.sin(performance.now()/180);ctx.shadowColor=gi===7?'#8affed':gi>=6?'#ff3d7f':'#3ee0c8';ctx.shadowBlur=14+12*pu;ctx.drawImage(im,-L*gx,-h*gy,L,h);if(gi>=6){ctx.save();ctx.globalAlpha*=gi===7?.14+.12*pu:.35+.25*pu;ctx.globalCompositeOperation='lighter';ctx.drawImage(im,-L*gx,-h*gy,L,h);ctx.restore()}ctx.shadowBlur=0;return}if(glow){ctx.shadowColor=gc;ctx.shadowBlur=10}ctx.drawImage(im,-L*gx,-h*gy,L,h);ctx.shadowBlur=0;return}}
  ctx.lineWidth=2;ctx.strokeStyle=OLC;const metal=gc==='#c3cad6'?'#d6dde8':lt(gc,.25);
  if(glow){ctx.shadowColor=gc;ctx.shadowBlur=10}
  if(k==='sword'||k==='dagger'){const L=k==='sword'?34:20;handle(-6,4,2.6);ell(-7,0,3.2,3.2,'#ffd23c');blade(7,L,4.4,9,metal);frr('#ffd23c',3,-8.5,5,17,2.5)}
@@ -2356,11 +2430,11 @@ function worldMap(ch=CHAP){
   const [bx,by]=z.b[j], [px,py]=points[i];
   const [x,y]=ch===2?islandPoint(i,900+bx*MS,4200+by*MS):[Math.max(5,Math.min(95,px+(bx-z.b[1][0])*.013)),Math.max(6,Math.min(94,py-8+(by-z.b[1][1])*.012))];
   return marker(k?z.boss2:z.boss,x,y);
- }).join('')).join('')+marker(ch===3?'wboss3':ch===2?'wboss2':'wboss',...(ch===3?[90,84]:percent(...worldBossMap[ch])),true);
+ }).join('')).join('')+marker(ch===3?'wboss3':ch===2?'wboss2':'wboss',...(ch===3?[91,11]:percent(...worldBossMap[ch])),true);
  const zone=current?inStage(P.x,P.y,0):-1;
- const [x,y]=ch===3?(zone>=0?points[zone]:Math.hypot(P.x-WBA.x,P.y-WBA.y)<=WBA.r?[90,84]:[8,74]):ch===2?islandPoint(zone,P.x,P.y):Math.hypot(P.x-BASE.x,P.y-BASE.y)<BASE.sand?[50,58]:points[zone]||[50,58];
+ const [x,y]=ch===3?(zone>=0?points[zone]:Math.hypot(P.x-WBA.x,P.y-WBA.y)<=WBA.r?[91,11]:[8,74]):ch===2?islandPoint(zone,P.x,P.y):Math.hypot(P.x-BASE.x,P.y-BASE.y)<BASE.sand?[50,58]:points[zone]||[50,58];
  const player=current?'<span class="map-player" role="img" aria-label="현재 위치" style="left:'+x+'%;top:'+(ch===1&&zone>=0?y-10:y)+'%"></span>':'';
- const art='<img src="assets/world-map-chapter-'+(ch===1?'1':ch===2?'2-illustrated':'3')+'.webp" alt="">';
+ const art='<img src="assets/world-map-chapter-'+(ch===1?'1.webp':ch===2?'2-illustrated.webp':'3.webp?v=2')+'" alt="">';
  return '<div class="mapw">'+art+player+pins+bosses+'</div><div class="map-boss-caption" aria-live="polite">보스 아이콘을 누르면 이름을 확인할 수 있어요</div>';
 }
 document.addEventListener('click',event=>{
@@ -2675,7 +2749,7 @@ loadAssets();requestAnimationFrame(frame);
 <script src="defense.js?v=13"></script>
 <script src="raid.js?v=15"></script>
 <script src="pet.js?v=13"></script>
-<script src="mount.js?v=28"></script>
+<script src="mount.js?v=29"></script>
 <script src="unlock.js?v=5"></script>
 <script>if(window.saveReady){if(questSaveNeeded)save();qlv()}</script>
 <script src="shop2.js?v=9"></script>

diff --git a/public/weapon-skill-fx.js b/public/weapon-skill-fx.js
@@ -9,7 +9,7 @@ window.WeaponSkillFX = (() => {
   const gold = new Image();
   gold.src = 'assets/weapon_skill_4.webp?v=1';
   atlases['4skill'] = gold;
-  for (const grade of [5,6]) for (const kind of ['skill','third']) {
+  for (const grade of [5,6,7]) for (const kind of ['skill','third']) {
     const image = new Image();
     image.src = `assets/weapon_${kind}_${grade}.webp?v=2`;
     atlases[grade + kind] = image;
@@ -53,7 +53,7 @@ window.WeaponSkillFX = (() => {
   }
 
   function illustrated(c, f, p, compact) {
-    const myth = f.grade === 6, size = (myth ? 265 : 208) * (f.third ? .60 : 1);
+    const myth = f.grade >= 6, size = (f.grade === 7 ? 280 : myth ? 265 : 208) * (f.third ? .60 : 1);
     const kind = f.third ? 'third' : 'skill';
     const paint = (x,y,a,s,opacity=1,stretch=1) =>
       sprite(c,f.type,f.grade,kind,x,y,a,s*size,opacity,stretch);
@@ -90,7 +90,7 @@ window.WeaponSkillFX = (() => {
       case 'bow':
         for(let i=0;i<(myth?7:5);i++){
           const q=phase(p,i*.048,.62), x=(i-(myth?3:2))*38;
-          if(q>0)paint(x,-182*(1-q),Math.PI*.43,.46+q*.12,1-q*.48);
+          if(q>0)paint(x,-182*(1-q),f.grade===7?0:Math.PI*.43,.46+q*.12,1-q*.48);
         }
         break;
       case 'gun':
@@ -117,18 +117,22 @@ window.WeaponSkillFX = (() => {
 
   function add(fxs, type, grade, player, target, angle, third = false) {
     if (grade === 4 && ['sword','bow','gun'].includes(type)) return;
-    const t=third?(type==='staff'?.56:.38):durations[grade][type];
+    const t=third?(type==='staff'?.56:.38):durations[Math.min(grade,6)][type];
     if(third) {
       const directed=['sword','spear','bow','gun'].includes(type);
       const anchor=['axe','mace','spear','bow','gun'].includes(type)?player:target;
       fxs.push({weaponSkill:true,type,grade,third,t,T:t,x:anchor.x,y:anchor.y-18,angle:directed?angle:0});
       return;
     }
-    const aimed=type==='dagger'||type==='staff'||(type==='bow'&&grade>=5)||(type==='sword'&&grade===6);
+    const aimed=type==='dagger'||type==='staff'||(type==='bow'&&grade>=5)||(type==='sword'&&grade>=6);
     const anchor=aimed?target:player;
     const directed=type==='spear'||type==='gun'||(type==='sword'&&grade<6)||(type==='bow'&&grade===4);
     const ground=type==='mace'||type==='staff'||type==='bow'&&grade>=5;
     fxs.push({weaponSkill:true,type,grade,t,T:t,x:anchor.x,y:anchor.y-(ground?0:18),angle:directed?angle:0,follow:type==='axe'});
+  }
+
+  function impact(fxs, type, grade, x, y, size, third = false, t = .35) {
+    fxs.push({weaponSkill:true,type,grade,x,y,size,third,impact:true,t,T:t,angle:0});
   }
 
   function draw(c, f, player, compact = false) {
@@ -138,13 +142,16 @@ window.WeaponSkillFX = (() => {
     c.rotate(f.angle);
     c.globalAlpha=Math.min(1,.2+p*12,(1-p)*5)*.9;
     c.lineJoin='round'; c.lineCap='round';
-    if(f.grade===4)legendary(c,f,p);
+    if(f.impact)sprite(c,f.type,f.grade,f.third?'third':'skill',0,0,0,f.size*(.6+.4*ease(p)),1);
+    else if(f.grade===4)legendary(c,f,p);
     else illustrated(c,f,p,compact);
     c.restore();
   }
   function projectile(c, shot) {
     const f=shot.weaponArt;
-    return f ? sprite(c,f.type,f.grade,f.third?'third':'skill',-8,0,f.type==='staff'?-Math.PI/2:0,f.type==='sword'?118:64,.92) : false;
+    if(!f)return false;
+    const turn=f.type==='staff'||(f.grade===7&&f.type==='bow'&&!f.third);
+    return sprite(c,f.type,f.grade,f.third?'third':'skill',-8,0,turn?-Math.PI/2:0,f.type==='sword'?118:64,.92);
   }
-  return {add,draw,projectile};
+  return {add,draw,projectile,impact};
 })();

diff --git a/public/mount.js b/public/mount.js
@@ -13,9 +13,9 @@ window.MOUNT = (() => {
     ['bigfrog', '왕개구리', 2, '#4ac860', 345, 'water', 20], ['whitehorse', '백마', 2, '#f4f0ea', 350, 'shine', 18], ['saber', '검치호', 2, '#e8a040', 360, 'sand', 13], ['goldstag', '황금뿔 수사슴', 2, '#c8963a', 365, 'gold', 10],
     ['crystalbear', '수정 곰', 3, '#9ad0ff', 400, 'frost', 28], ['frostwolf', '서리 늑대', 3, '#d8f0ff', 405, 'frost', 25], ['reindeer', '얼음 순록', 3, '#8fd8ff', 410, 'frost', 22],
     ['lion', '화염 사자', 3, '#ff8a3a', 410, 'fire', 22], ['nightmare', '그림자 말', 3, '#5a3a8a', 420, 'shadow', 16], ['lavadrake', '용암 도마뱀', 3, '#ff5a2a', 425, 'fire', 12], ['pegasus', '페가수스', 3, '#ffffff', 430, 'feather', 9],
-    ['nightwolf', '야월 흑랑', 5, '#986cdd', 560, 'shadow', 1],
     ['whitetiger', '백호왕', 4, '#f4f4ff', 480, 'storm', 25], ['stardeer', '별빛 사슴', 4, '#a8b8ff', 485, 'star', 22], ['kirin', '번개 기린', 4, '#4ad8c8', 490, 'storm', 20],
     ['phoenixsteed', '불사조 말', 4, '#ff7a2a', 495, 'fire', 15], ['griffin', '황금 그리핀', 4, '#ffc83c', 500, 'gfeather', 12], ['seraph', '천상의 천마', 4, '#fff6d8', 510, 'gfeather', 8], ['dragon', '붉은 용', 4, '#e83a3a', 520, 'fire', 6],
+    ['nightwolf', '야월 흑랑', 5, '#986cdd', 560, 'shadow', 1],
   ];
 
   const MS = L.map(([k, n, g, c, sp, fx, w]) => ({ k, n, g, c, sp, fx, w }));
@@ -41,7 +41,7 @@ window.MOUNT = (() => {
   // 그림 부품: mount_<키>_body(다리 없는 몸·머리·꼬리·안장, 오른쪽 보기), mount_<키>_leg(다리 1개, 위=몸에 붙는 쪽), 날개 달린 건 mount_<키>_wing(위=어깨)
   // RIG: 다리 붙는 위치(몸통 그림 비율 x,y), 다리 길이(몸 폭 비율), 안장(비율), 걸음 폭, 날개
   const RIG = {
-    nightwolf: { fl: [.71,.77], bl: [.33,.76], leg:.40, seat:[.49,.31], amp:.62 },
+    nightwolf: { fl: [.71,.77], bl: [.33,.76], leg:.40, seat:[.35,.46], amp:.62 },
     pony: { fl: [.66, .86], bl: [.27, .80], leg: .38, seat: [0.48, 0.54], amp: .55 },
     boar: { fl: [.66, .82], bl: [.26, .86], leg: .28, seat: [0.37, 0.39], amp: .6 },
     wolf: { fl: [.66, .80], bl: [.25, .82], leg: .38, seat: [0.41, 0.45], amp: .65 },
@@ -343,7 +343,7 @@ window.MOUNT = (() => {
     if (P.moving) {
       F.gT -= dt;
       if (m.g >= 4 && F.gT <= 0) { F.gT = .13; F.ghosts.push({ x: P.x, y: P.y, f: Math.cos(P.dir) >= 0 ? 1 : -1, ph: F.ph, side: F.side, l: 1 }) }
-      const n = dt * [10, 14, 18, 24, 30][m.g], col = FXC[m.fx] || '#ffffff';
+      const n = dt * [10, 14, 18, 24, 30, 34][m.g], col = FXC[m.fx] || '#ffffff';
       if (Math.random() < n) F.parts.push({ x: P.x - Math.cos(P.dir) * 26 + rnd(-10, 10), y: P.y + rnd(-4, 4), vx: -Math.cos(P.dir) * rnd(20, 60), vy: rnd(-30, -6), l: rnd(.35, .6), c: col, r: m.g >= 2 ? rnd(2.5, 4.5) : rnd(4, 7), glow: m.g >= 2, fx: m.fx, spin: rnd(-4, 4) })
     }
     for (let i = F.ghosts.length - 1; i >= 0; i--) { F.ghosts[i].l -= dt * 4; if (F.ghosts[i].l <= 0) F.ghosts.splice(i, 1) }

diff --git a/public/chapter-three.js b/public/chapter-three.js
@@ -11,7 +11,15 @@ const CHAPTER_THREE = [
  ['황금 쇼군성',135,'#c4a168','황금 쇼군','c2dragon'],
 ];
 
-const CH3_POINTS = [[15,62],[37,59],[61,59],[88,59],[15,22],[39,22],[63,22],[89,22]];
+const CH3_POINTS = [[15,70],[38,69],[62,69],[86,69],[15,28],[39,28],[62,29],[84,25]];
+// Coastline points in world coordinates, clockwise around a single landmass.
+const CH3_COAST = [
+ [260,5510],[550,4240],[930,3150],[1380,1650],[2050,995],[3420,910],
+ [5160,800],[6680,970],[8190,805],[10460,900],[12170,680],[13740,850],
+ [14745,1820],[14930,3100],[14380,4400],[14620,5760],[14170,6950],[13640,8010],
+ [12730,8590],[11100,8390],[9870,8820],[8010,8660],[6570,8970],[4910,8640],
+ [3380,8760],[1830,8110],[725,7590],[260,6910]
+];
 const CH3_CENTERS = [[750,220],[2100,220],[3450,220],[4800,220],[750,-1500],[2100,-1500],[3450,-1500],[4800,-1500]];
 const ZS3 = CHAPTER_THREE.map(([n,req,c],i) => {
  const [x,y]=CH3_CENTERS[i],p='c3_'+i+'_';
